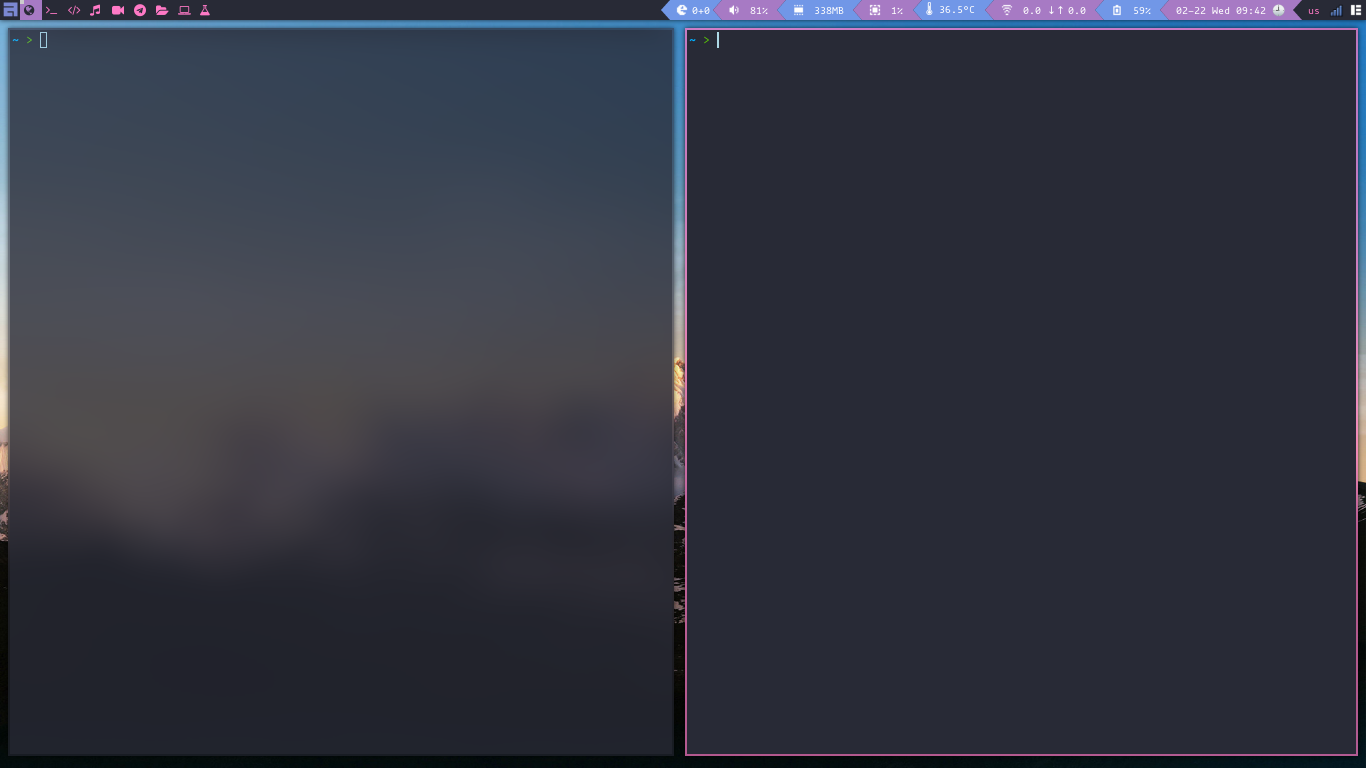
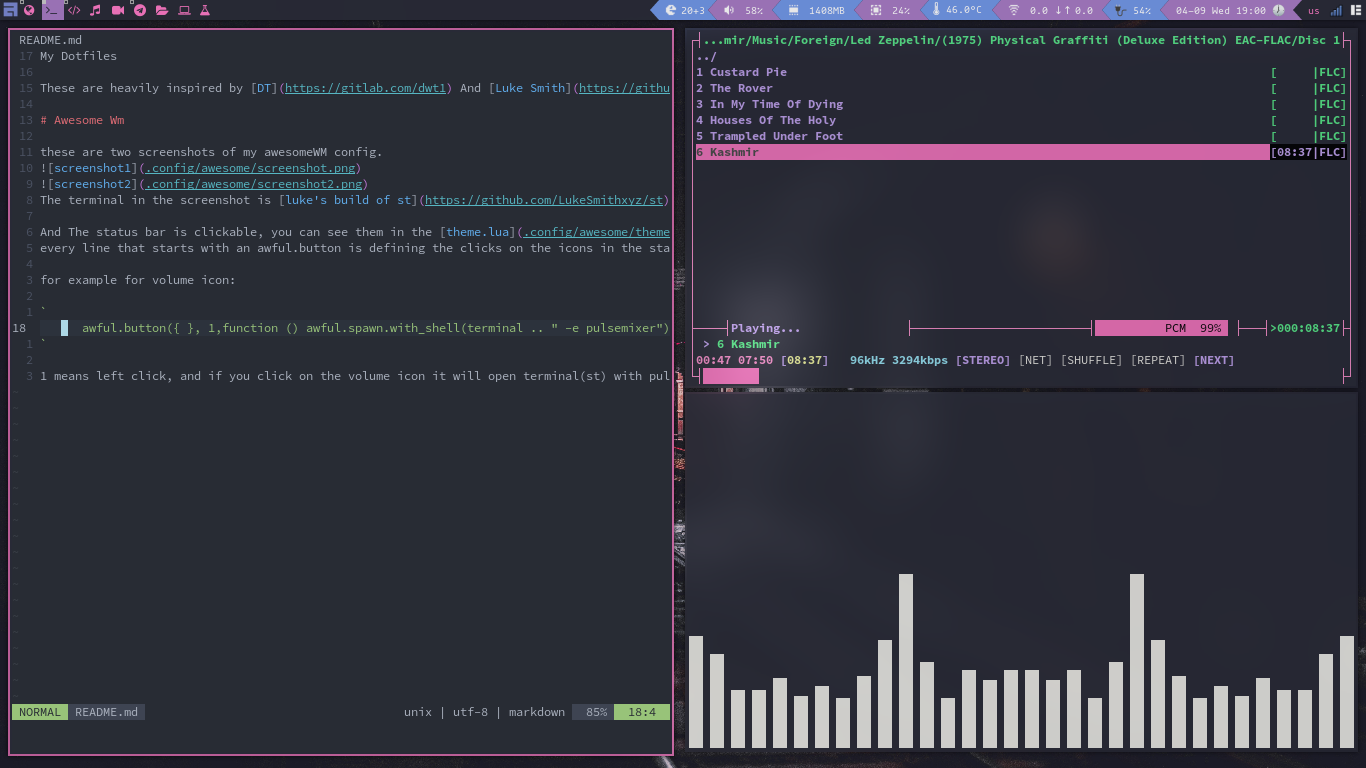
changed readme and screenshots

diff --git a/README.md b/README.md
@@ -14,5 +14,8 @@ every line that starts with an awful.button is defining the clicks on the icons 
 
 for example for volume icon:
 
-            awful.button({ }, 1,function () awful.spawn.with_shell("st -e pulsemixer") end),
-1 means left click, and if you click on the volume icon it will open st with pulsemixer.
+`
+      awful.button({ }, 1,function () awful.spawn.with_shell(terminal .. " -e pulsemixer") end),
+`
+
+1 means left click, and if you click on the volume icon it will open terminal(st) with pulsemixer.
